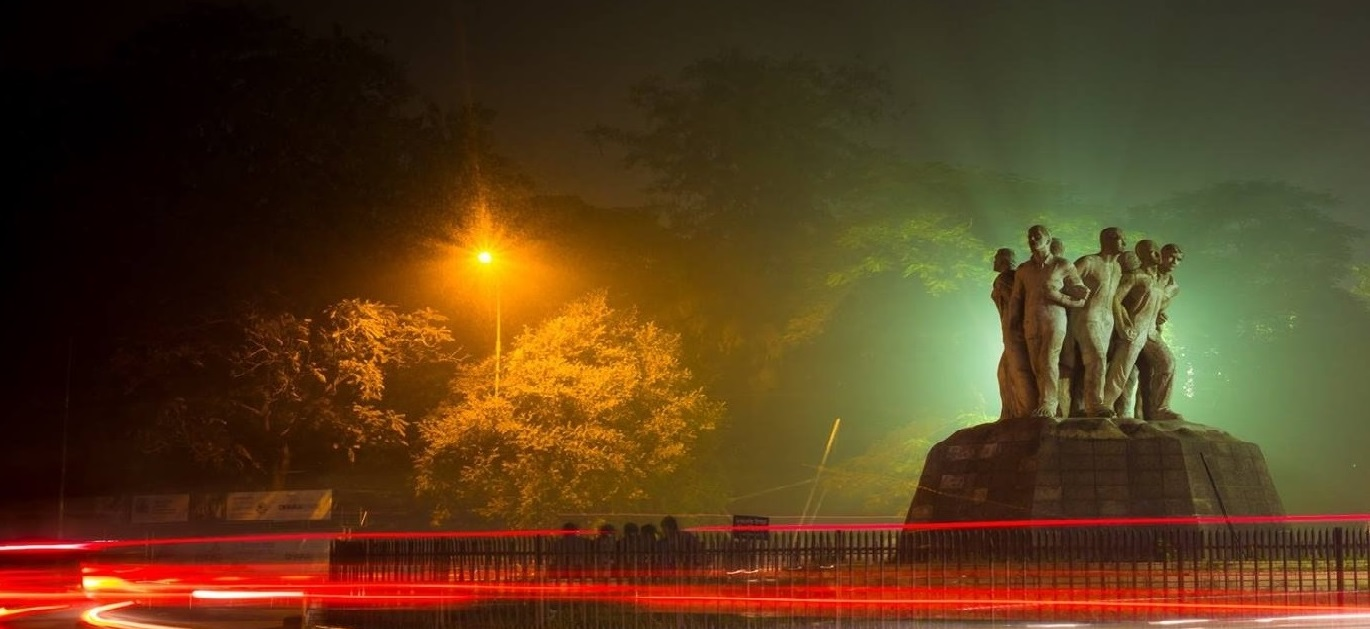
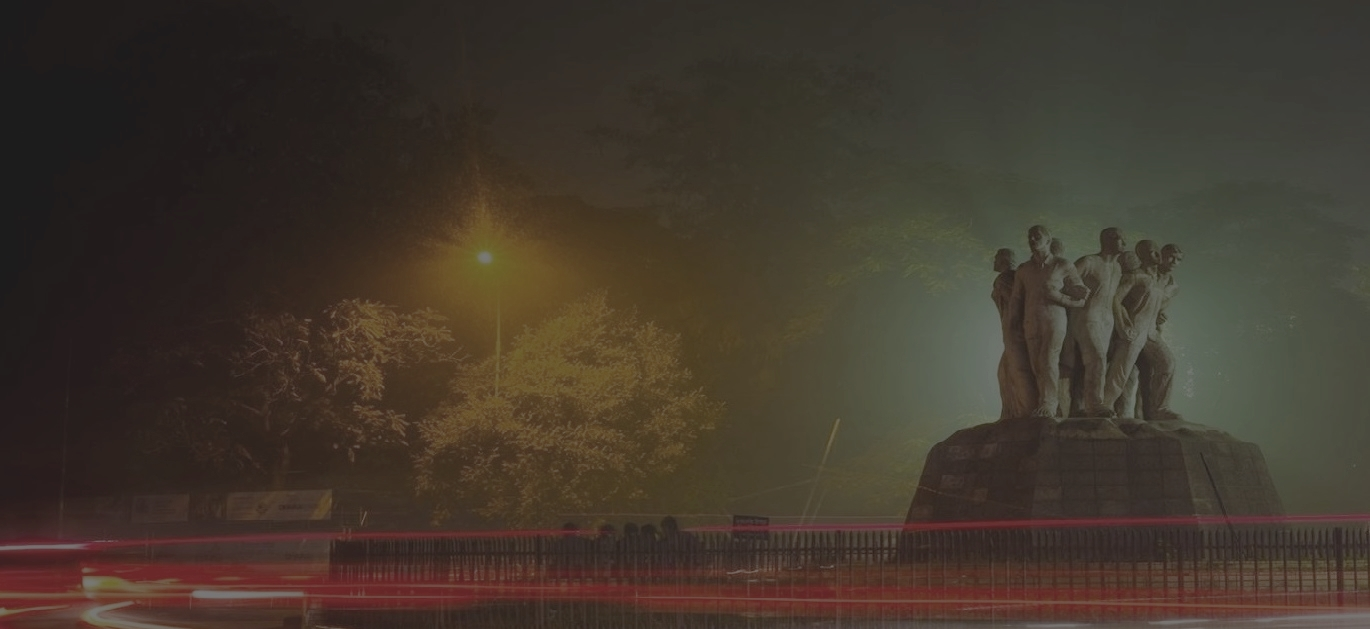
kawshik 1256am

diff --git a/home_nav-Copy1.html b/home_nav-Copy1.html
@@ -123,6 +123,8 @@ p.outset
 	width: 840px;
 	left: 150px;
 	margin-bottom: 50px;
+	text-align:center;
+	border: 3px solid green;
 	
 }
 
@@ -221,7 +223,7 @@ li a.active {
 <div class="bg"></div>
 <img src="dhaka.png" class="logo"  height="150" width="120"/>
 <ul>
-  <li><a  href="#home" class="active">Home</a></li>
+  <li><a  href="C:\xampp\htdocs\webProject\home_nav.html">Home</a></li>
   <li><a  href="C:\xampp\htdocs\webProject\home_nav-Copy.html">Notice</a></li>
   <li class="dropdown">
     <a href="javascript:void(0)" class="dropbtn">Registration</a>
@@ -231,7 +233,7 @@ li a.active {
       <a href="#">Admin</a>
     </div>
     <li><a href='http://www.du.ac.bd/'>DU Website</a></li>
-    <li><a href="C:\xampp\htdocs\webProject\home_nav-Copy1.html" >About</a></li>
+    <li><a href="#about" class="active">About</a></li>
 	
 	
 	
@@ -240,11 +242,13 @@ li a.active {
 </ul>
 
 <p class="outset" 
-<div class="w3-content w3-section" width="800">
-  <img class="mySlides w3-animate-fading" src="curzon.jpg" height="300" width="800" > 
-  <img class="mySlides w3-animate-fading" src="razu.jpg" height="300" width="800" > 
-  <img class="mySlides w3-animate-fading" src="oporajeyo.jpg" height="300" width="800" >
-</div>
+
+<text> Creator: </text>
+
+<br>
+<a>Uchchhwas Roy (Roll: 51) </a> 
+<br>
+<a>Sajid Mahmud Kawshik (Roll: 61) </a>
 
 </p>
 
@@ -252,30 +256,6 @@ li a.active {
 
 <div class="ex1" >
 
-
-<div class="leftcontact">
-<div class="container">
-
-  <img src="ff.png" alt="Avatar" class="image" style="width:100%">
-  <div class="middle">
-    <div class="text"><a href="http://www.du.ac.bd/home/facilities" style="text-decoration:none;">Facilities</a></div>
-  </div>
-
-</div>  
-
-</div>
-
-<div class="rightcontact">	
-
-<div class="container">
-
-  <img src="office.png" alt="Avatar" class="image" style="width:60%">
-  <div class="middle">
-    <div class="text"><a href="http://www.du.ac.bd/home/office_and_admin/ovc" style="text-decoration:none;">Office and Administration</a></div>
-  </div>
-</div>
-
-</div>
 
 </div>
 

diff --git a/home_nav-Copy.html b/home_nav-Copy.html
@@ -221,8 +221,8 @@ li a.active {
 <div class="bg"></div>
 <img src="dhaka.png" class="logo"  height="150" width="120"/>
 <ul>
-  <li><a  href="#home" class="active">Home</a></li>
-  <li><a  href="C:\xampp\htdocs\webProject\home_nav-Copy.html">Notice</a></li>
+  <li><a  href="C:\xampp\htdocs\webProject\home_nav.html">Home</a></li>
+  <li><a  href="#" class="active">Notice</a></li>
   <li class="dropdown">
     <a href="javascript:void(0)" class="dropbtn">Registration</a>
     <div class="dropdown-content">
@@ -231,7 +231,7 @@ li a.active {
       <a href="#">Admin</a>
     </div>
     <li><a href='http://www.du.ac.bd/'>DU Website</a></li>
-    <li><a href="C:\xampp\htdocs\webProject\home_nav-Copy1.html" >About</a></li>
+    <li><a href="C:\xampp\htdocs\webProject\home_nav-Copy1.html">About</a></li>
 	
 	
 	
@@ -240,11 +240,7 @@ li a.active {
 </ul>
 
 <p class="outset" 
-<div class="w3-content w3-section" width="800">
-  <img class="mySlides w3-animate-fading" src="curzon.jpg" height="300" width="800" > 
-  <img class="mySlides w3-animate-fading" src="razu.jpg" height="300" width="800" > 
-  <img class="mySlides w3-animate-fading" src="oporajeyo.jpg" height="300" width="800" >
-</div>
+<text>There is no notice yet. </text>
 
 </p>
 
@@ -253,29 +249,7 @@ li a.active {
 <div class="ex1" >
 
 
-<div class="leftcontact">
-<div class="container">
 
-  <img src="ff.png" alt="Avatar" class="image" style="width:100%">
-  <div class="middle">
-    <div class="text"><a href="http://www.du.ac.bd/home/facilities" style="text-decoration:none;">Facilities</a></div>
-  </div>
-
-</div>  
-
-</div>
-
-<div class="rightcontact">	
-
-<div class="container">
-
-  <img src="office.png" alt="Avatar" class="image" style="width:60%">
-  <div class="middle">
-    <div class="text"><a href="http://www.du.ac.bd/home/office_and_admin/ovc" style="text-decoration:none;">Office and Administration</a></div>
-  </div>
-</div>
-
-</div>
 
 </div>
 

diff --git a/form.css b/form.css
@@ -4,6 +4,14 @@ body {
   font-family: 'Open Sans', sans-serif;
 }
 
+img {
+    opacity: 0.5;
+    filter: alpha(opacity=50); /* For IE8 and earlier */
+}
+
+
+
+
 .info p {
   text-align:center;
   color: #999;
@@ -31,11 +39,12 @@ form h1 {
 
 form {
   border-radius: 5px;
-  max-width:700px;
+  max-width:900px;
   width:100%;
-  margin: 5% auto;
+  margin: 2% auto;
   background-color: #FFFFFF;
   overflow: hidden;
+ 
 }
 
 p span {
@@ -50,9 +59,10 @@ p {
 }
 
 h1 {
+  font: 50px arial, sans-serif;
   text-align:center; 
-  color: #666;
-  text-shadow: 1px 1px 0px #FFF;
+  color: white;
+  text-shadow: 2px 2px 4px #000000;
   margin:50px 0px 0px 0px
 }
 
@@ -78,6 +88,7 @@ textarea {
   height: 130px; 
   float: left;
   padding: 0px 15px;
+  
 }
 
 .form-group {
@@ -102,6 +113,7 @@ i {
 
 .contentform {
   padding: 40px 30px;
+  
 }
 
 .bouton-contact{
